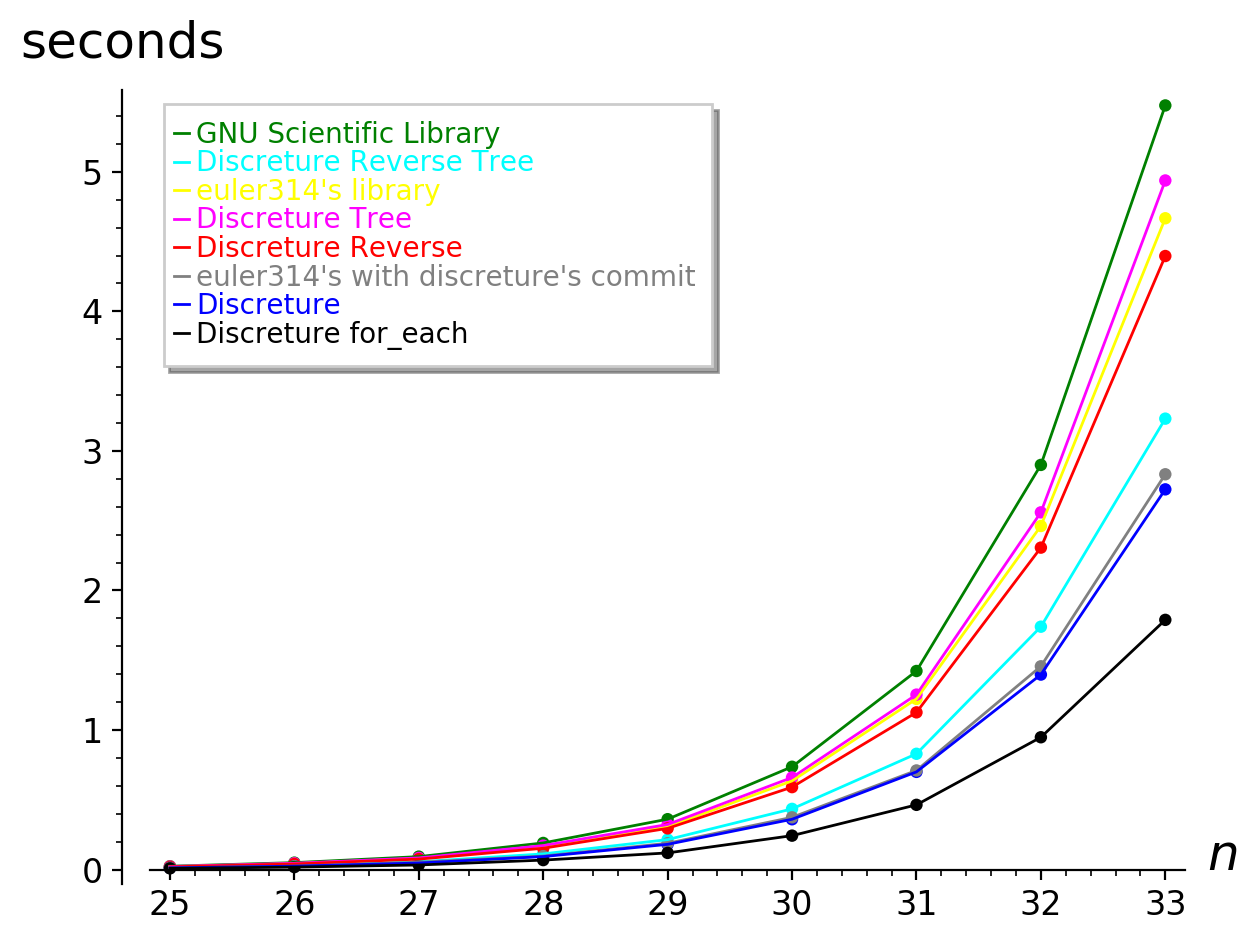
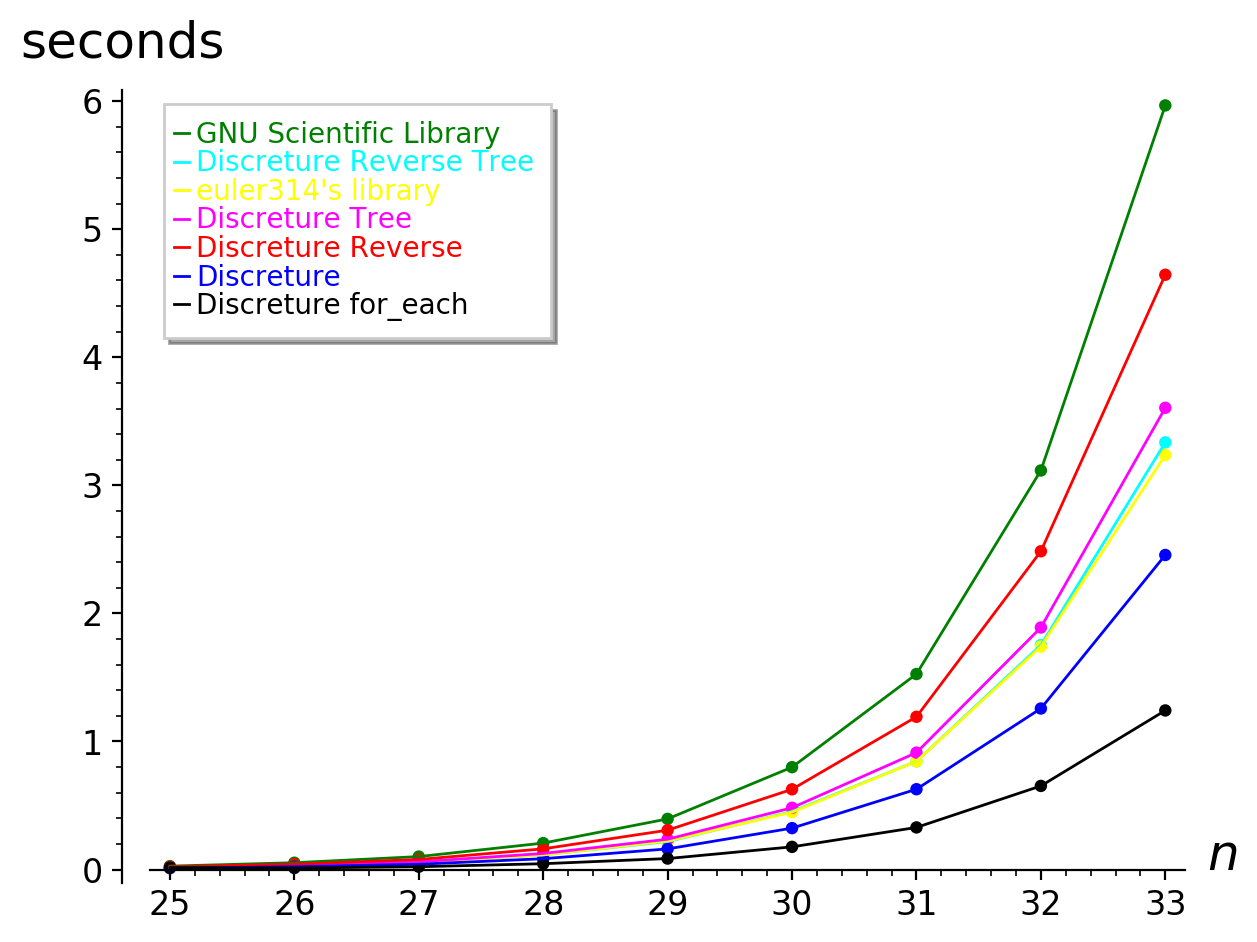
Updated graph of combinations

diff --git a/Benchmarks/old/combinations_benchmark.cpp b/Benchmarks/old/combinations_benchmark.cpp
@@ -140,7 +140,7 @@ void produceAllCombinationData(int from, int to)
 
 	for (int n = from; n < to; ++n)
 	{
-		for (const auto& x : combinations(n, n / 2))
+		for (const auto& x : combinations_fast(n, n / 2))
 		{
 			DoNotOptimize(x);
 		}
@@ -158,7 +158,7 @@ void produceAllCombinationReverseData(int from, int to)
 
 	for (int n = from; n < to; ++n)
 	{
-		combinations X(n, n / 2);
+		combinations_fast X(n, n / 2);
 
 		for (auto it = X.rbegin(); it != X.rend(); ++it)
 		{
@@ -178,7 +178,7 @@ void produceAllCombinationTreeData(int from, int to)
 
 	for (int n = from; n < to; ++n)
 	{
-		for (const auto& x : combinations_tree(n, n / 2))
+		for (const auto& x : combinations_tree_fast(n, n / 2))
 		{
 			DoNotOptimize(x);
 		}
@@ -196,7 +196,7 @@ void produceAllCombinationTreeReverseData(int from, int to)
 
 	for (int n = from; n < to; ++n)
 	{
-		combinations_tree X(n, n / 2);
+		combinations_tree_fast X(n, n / 2);
 
 		for (auto it = X.rbegin(); it != X.rend(); ++it)
 		{
@@ -217,26 +217,9 @@ void produceAllEulerGuyData(int from, int to)
 
 	for (int n = from; n < to; ++n)
 	{
-		auto end = combination_iterator<long>();
+		auto end = combination_iterator<int>();
 
-		for (auto it = combination_iterator<long>(n, n / 2); it != end; ++it)
-		{
-			DoNotOptimize(*it);
-		}
-
-		std::cout << C.Reset() << ", ";
-	}
-
-	std::cout << ']' << std::endl;
-	
-	
-	std::cout << "euler314maximin = [";
-
-	for (int n = from; n < to; ++n)
-	{
-		auto end = combination_iterator_minimax_order<long>();
-
-		for (auto it = combination_iterator_minimax_order<long>(n, n / 2); it != end; ++it)
+		for (auto it = combination_iterator<int>(n, n / 2); it != end; ++it)
 		{
 			DoNotOptimize(*it);
 		}
@@ -254,9 +237,9 @@ void produceAllBFCombinations(int from, int to)
 
 	for (int n = from; n < to; ++n)
 	{
-		combinations X(n, n / 2);
+		combinations_fast X(n, n / 2);
 
-		X.for_each([](const combinations::combination& x)
+		X.for_each([](const combinations_fast::combination& x)
 		{
 			DoNotOptimize(x);
 		});

diff --git a/Benchmarks/old/benchmark_all.cpp b/Benchmarks/old/benchmark_all.cpp
@@ -31,9 +31,9 @@ int main()
 	Chronometer C;
 
 	cout << "================ Starting Speed Tests ================" << endl;
-	testSpeed(); //TODO(mraggi): switch to google benchmark!
+// 	testSpeed(); //TODO(mraggi): switch to google benchmark!
 
-// 	produceAllCombinationBenchmarkData(25,34);
+	produceAllCombinationBenchmarkData(25,34);
 	
 	cout << "Total Time taken = " << C.Reset() << "s" << endl;
 	return 0;
